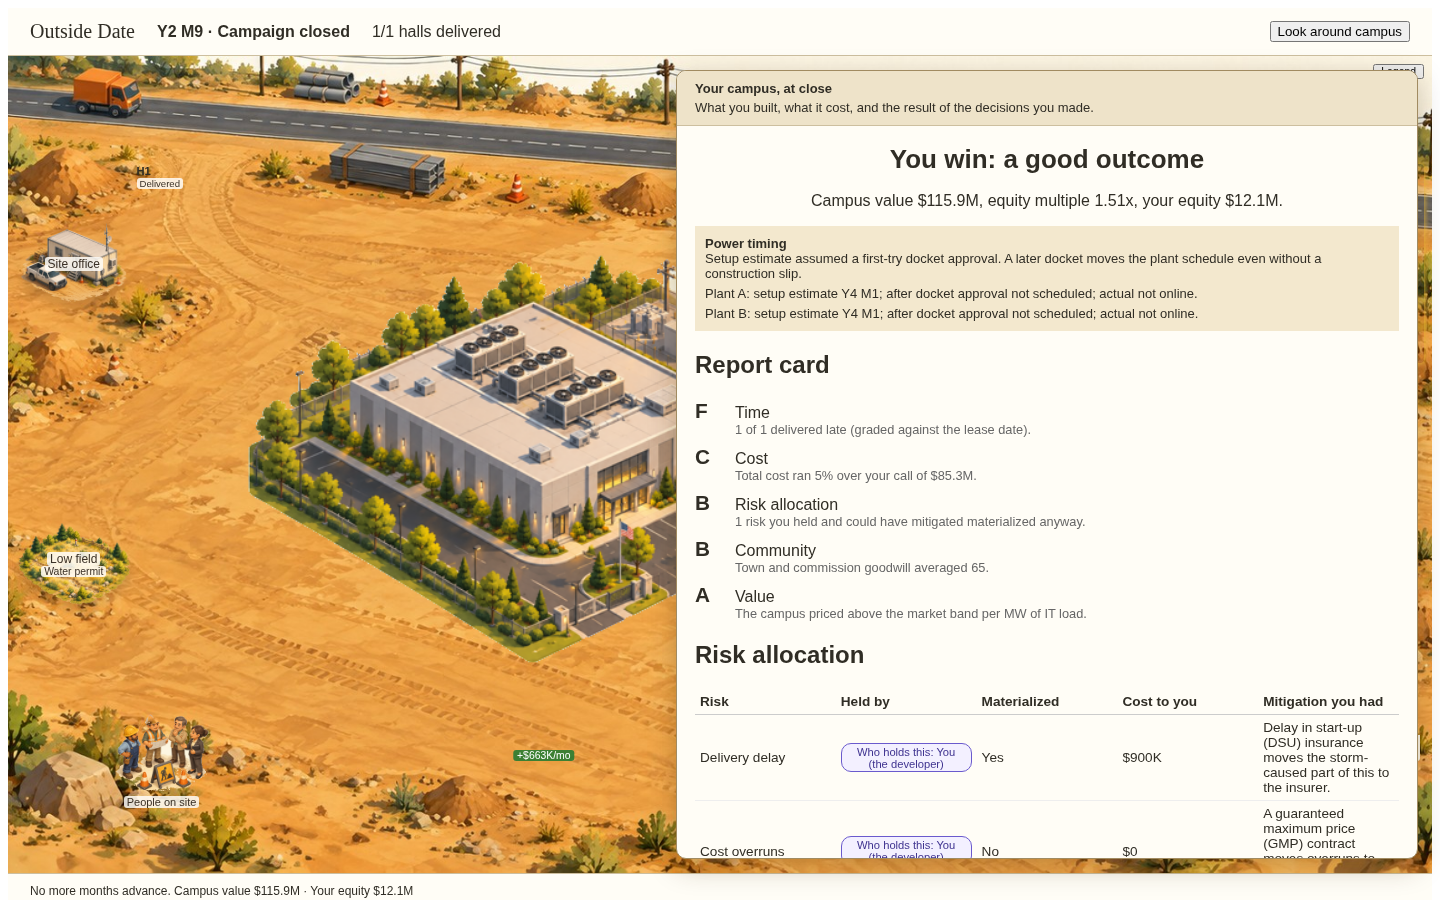
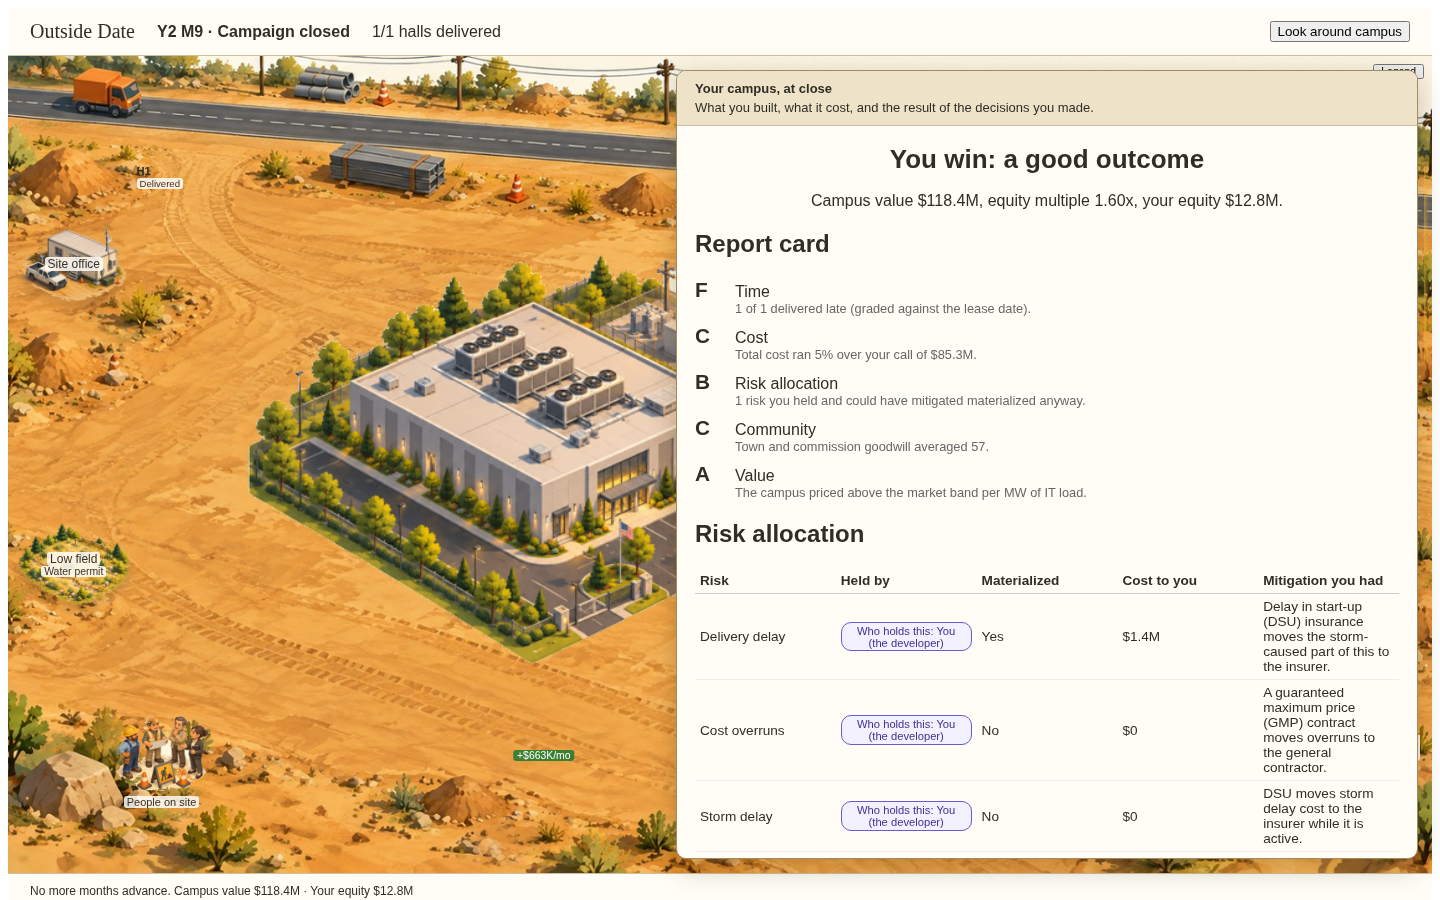
Omit docket timing from no-docket closeouts and pin journey seed (#74)

diff --git a/e2e/immersive-journey.spec.ts b/e2e/immersive-journey.spec.ts
@@ -3,6 +3,7 @@ import fs from 'node:fs';
 test('fresh title through signing, object-only construction and final report',async({page})=>{
  test.setTimeout(180_000);await page.setViewportSize({width:1440,height:900});
  const trace:string[]=[];const errors:string[]=[];page.on('pageerror',e=>errors.push(e.message));
+ await page.addInitScript(() => { Math.random = () => 1 / 1_000_000_000; });
  await page.goto('/');await page.locator('select').first().selectOption('tutorial-edge5');await page.getByRole('button',{name:'New game',exact:true}).click();
  for(const name of ['Next: Hall tier','Next: Cooling','Next: Contractor','Next: Lease','Next: Forecast','Next: Capital stack','Next: Power','Next: Insurance','Review closing table'])await page.getByRole('button',{name,exact:true}).click();
  await page.screenshot({path:'docs/screenshots/cold2/journey-closing.png'});await page.getByRole('button',{name:'Start campaign',exact:true}).click();
@@ -40,6 +41,7 @@ test('fresh title through signing, object-only construction and final report',as
  expect(trace.filter(t=>t.startsWith('PLAN ')).length).toBeGreaterThan(5);
  expect(trace).toContain('PRICE TAKEOUT');
  await expect(page.getByRole('heading',{name:'Report card',exact:true})).toBeVisible();
+ await expect(page.getByTestId('power-timing-closeout')).toHaveCount(0);
  trace.push('END '+await page.locator('body').innerText());fs.writeFileSync('/tmp/immersive-journey-trace.txt',trace.join('\n'));
  await page.screenshot({path:'docs/screenshots/cold2/journey-report.png'});expect(errors).toEqual([]);
 });

diff --git a/src/ui/screens/ReportCardScreen.tsx b/src/ui/screens/ReportCardScreen.tsx
@@ -308,6 +308,7 @@ function PowerTiming() {
   const state = useStore(s=>s.draft);
   const content = useStore(s=>s.content);
   const resolved = resolveContent(state,content);
+  if (!state.docketEnabled) return null;
   const initial = resolved.tuning.docket.monthsToVote + resolved.tuning.power.plantBuildMonths;
   return <section data-testid="power-timing-closeout" style={{padding:10,background:'#f3e8ce',fontSize:13}}>
     <strong>Power timing</strong>

diff --git a/CHECKPOINT.md b/CHECKPOINT.md
@@ -1227,3 +1227,13 @@ have transparent edges; the power timeline labels stay inside the panel.
 | scope | tutorial-edge5 through full setup, random campaign seed; Whale full cold real-click journey remains outstanding |
 | remaining | tutorial report shows irrelevant plant/docket timing despite no docket; ledger stale rows; event target naming and discovery frequency review |
 | grid | skipped: next-step/UI routing only, engine/save unchanged |
+
+# Closeout only explains plant timing when the scenario uses a docket
+
+| criterion | status |
+|---|---|
+| irrelevant panel | done: no-docket scenario omits first-try approval/plant schedule panel |
+| journey stability | done: pin title's random campaign seed to 1 in test, not state injection; random seed had legitimately lost before takeout on retry |
+| full gates | done: 525 unit, 74 e2e in bounded groups, lint, tsc, build |
+| visual | inspected: tutorial final report starts directly with grades, no irrelevant plant/docket claim |
+| grid | skipped: presentation/test only, engine/save unchanged |
